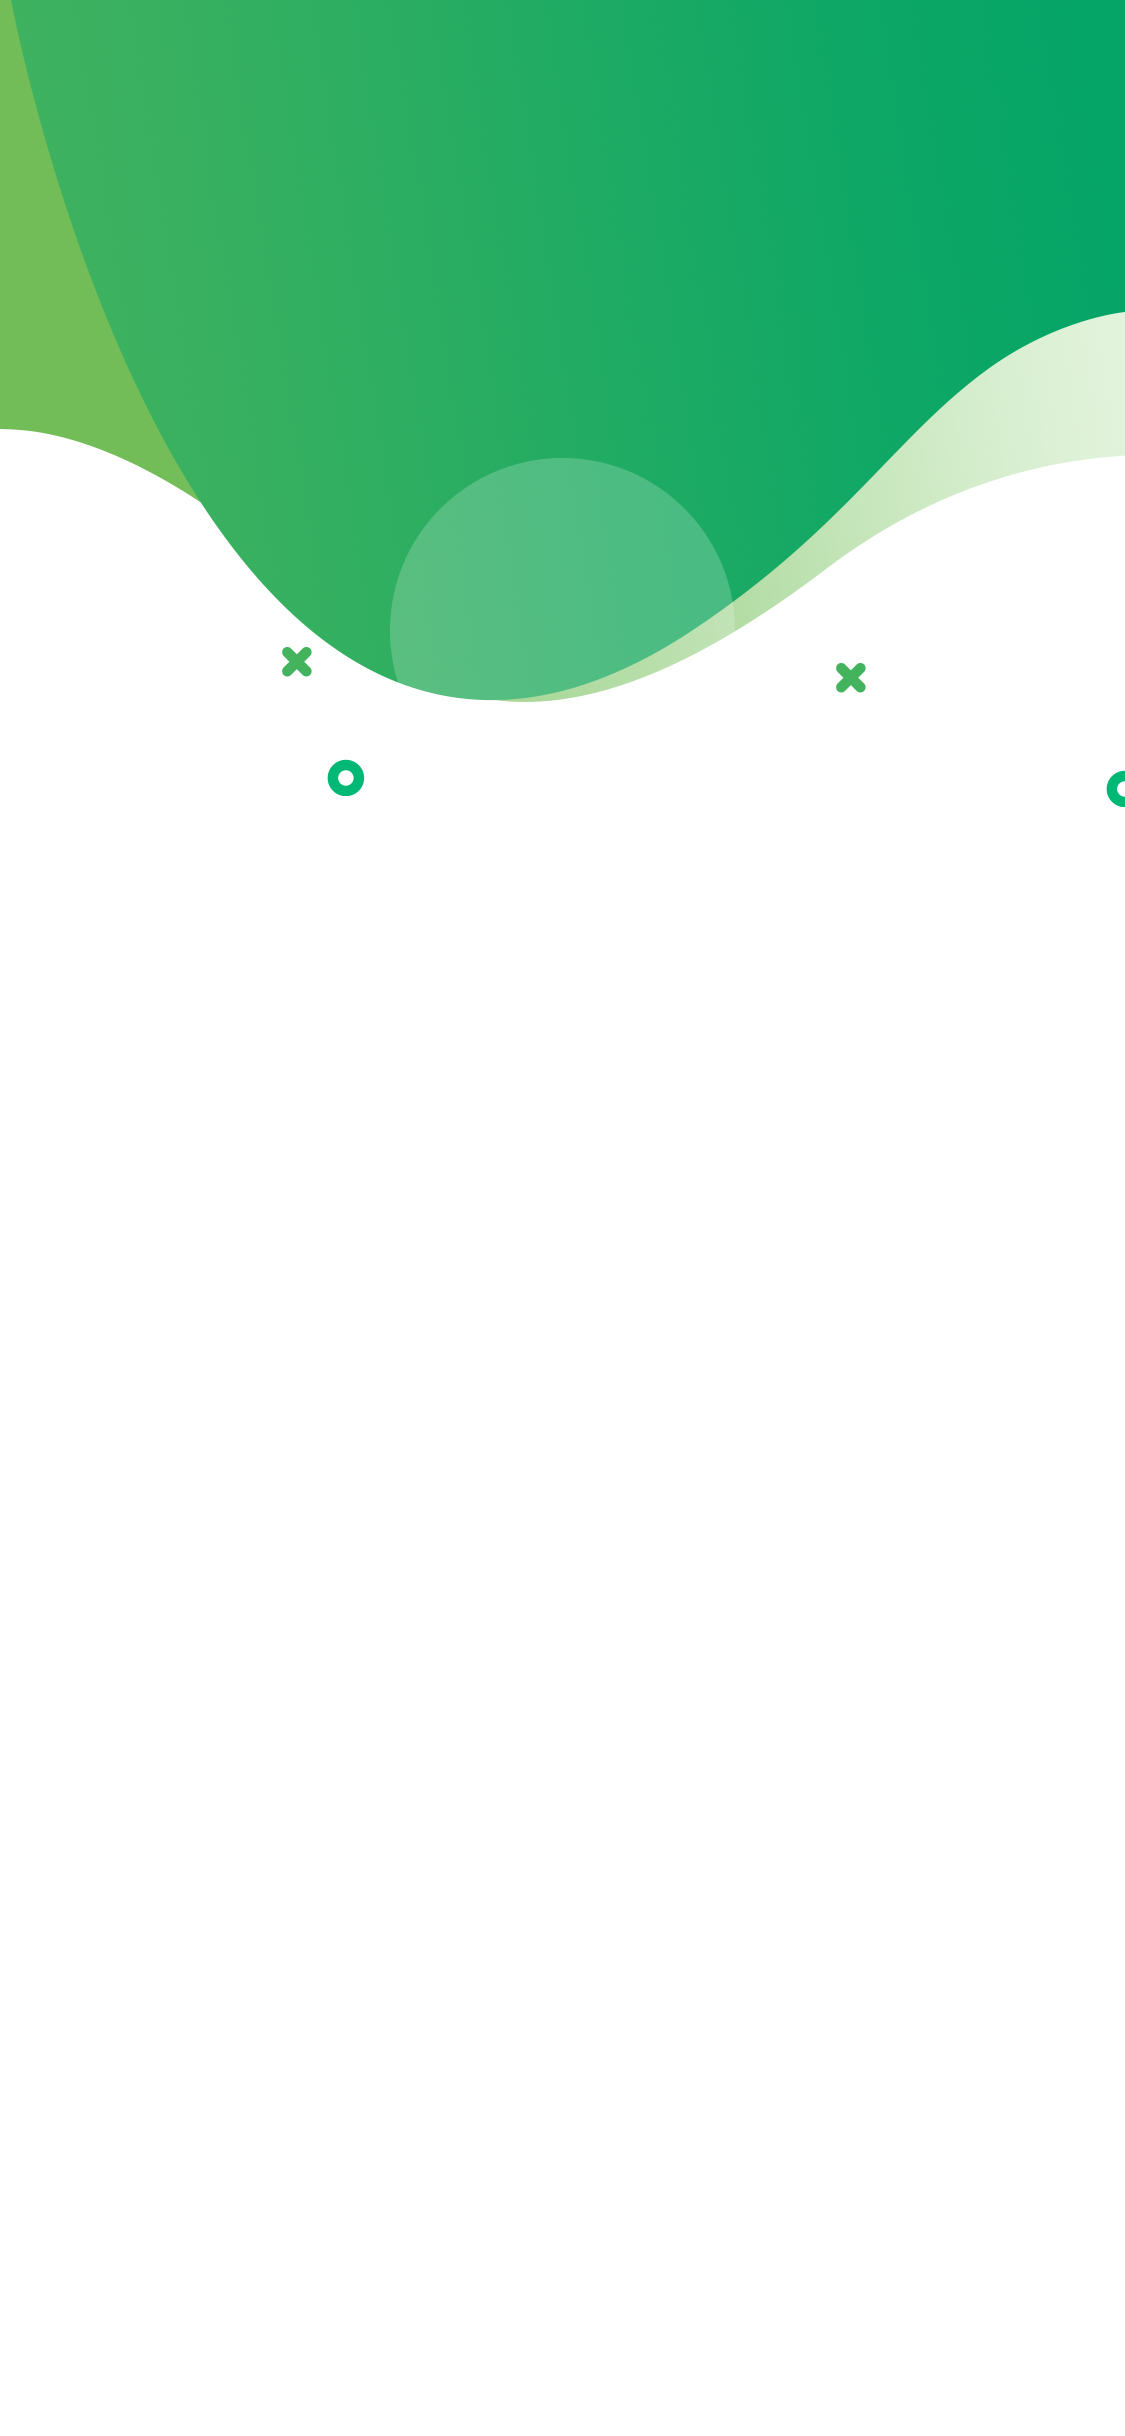
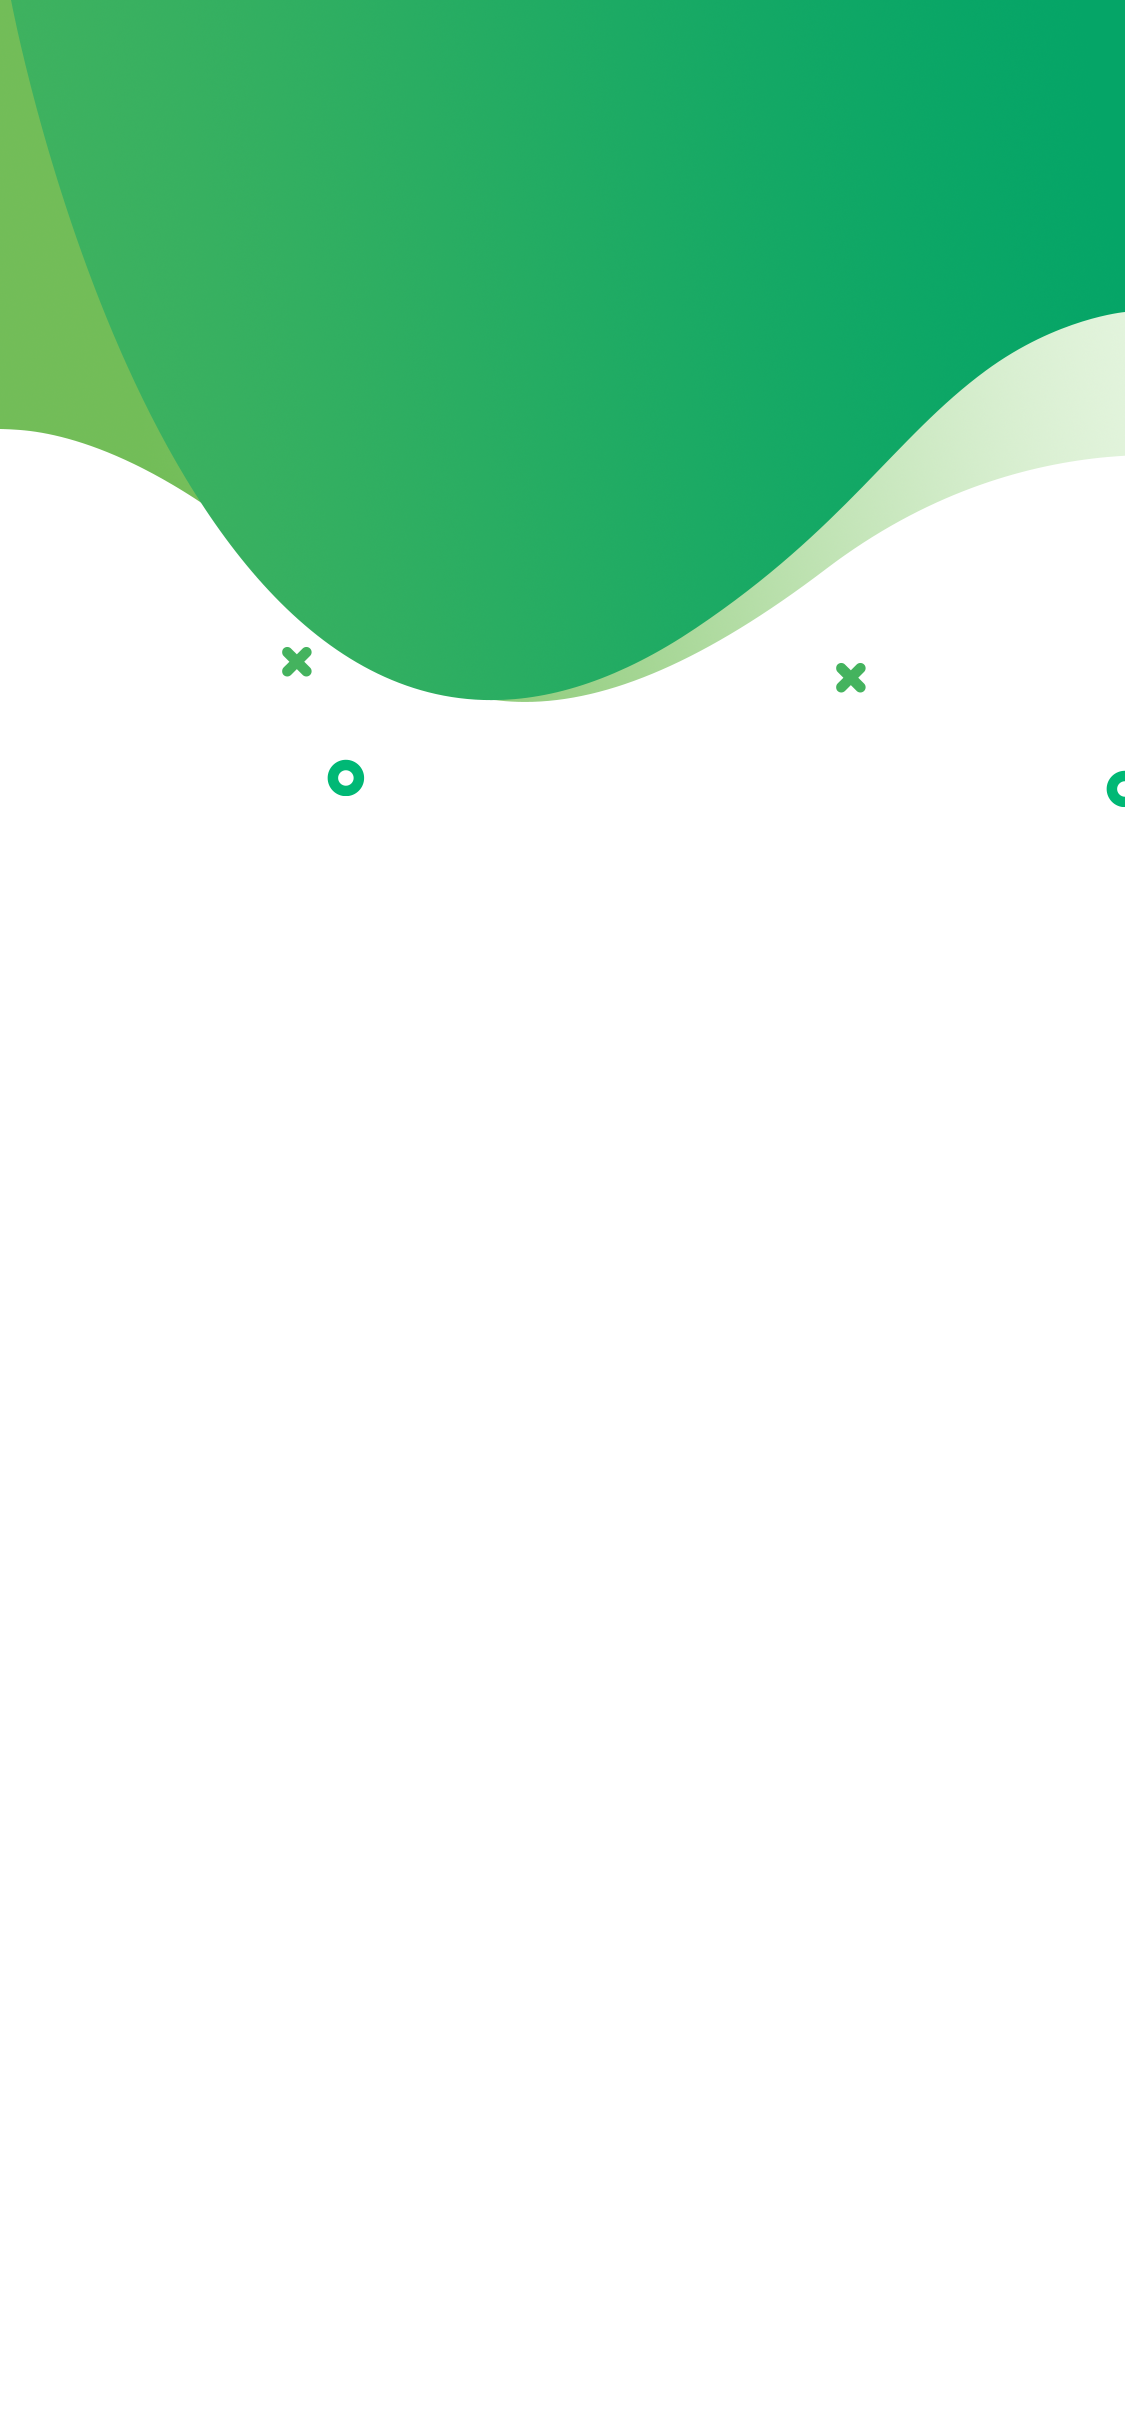
Added fixes for background and profile photo.

Changed region(s): [[0.3422, 0.1872, 0.6533, 0.312]]

diff --git a/components/templates/SignInTemplate/SignInTemplate.tsx b/components/templates/SignInTemplate/SignInTemplate.tsx
@@ -17,12 +17,14 @@ export const SignInTemplate: React.FC<Props> = ({
 }) => {
   return (
     <ImageBackground
+      style={styles.background}
       source={require('../../../assets/png/02_Login.png')}
-      resizeMode={'cover'}
-      style={styles.background}>
-      <SignInTop />
+      resizeMode={'cover'}>
       <View style={styles.profilePhoto}>
-        <ProfilePhoto photoUrl={require('../../../assets/jpg/3.jpg')} />
+        <SignInTop />
+        <ProfilePhoto
+          photoUrl={require('../../../assets/jpg/profile_photo.jpg')}
+        />
       </View>
       <SignInForm
         onPressSignIn={onPressSignIn}

diff --git a/components/templates/SignInTemplate/SignInTemplate.styles.ts b/components/templates/SignInTemplate/SignInTemplate.styles.ts
@@ -1,11 +1,17 @@
 import {StyleSheet} from 'react-native';
 
 export default StyleSheet.create({
-  background: {flex: 1},
-  profilePhoto: {
-    // position: 'relative',
-    marginTop: '-28%',
-    marginLeft: 'auto',
-    marginRight: 'auto',
+  background: {
+    // flex: 1,
+    // height: '100%',
+    width: '100%',
+    height: '100%',
   },
+  profilePhoto: {
+    marginHorizontal: 'auto',
+    alignItems: 'center',
+    justifyContent: 'space-around',
+    height: '30%',
+  },
+  topImage: {width: '100%', height: '100%'},
 });

diff --git a/components/atoms/ProfilePhoto/ProfilePhoto.styles.ts b/components/atoms/ProfilePhoto/ProfilePhoto.styles.ts
@@ -2,5 +2,13 @@ import {StyleSheet} from 'react-native';
 import {Colors} from '../../../constants/colors';
 
 export default StyleSheet.create({
-  image: {height: 90, width: 90, borderRadius: 50},
+  image: {height: 90, width: 90, borderRadius: 50, zIndex: 1},
+  imageContainer: {
+    height: 100,
+    width: 100,
+    borderRadius: 50,
+    backgroundColor: 'rgba(255,255,255,.4)',
+    justifyContent: 'center',
+    alignItems: 'center',
+  },
 });

diff --git a/components/atoms/CustomPasswordInput/CustomPasswordInput.styles.ts b/components/atoms/CustomPasswordInput/CustomPasswordInput.styles.ts
@@ -2,7 +2,10 @@ import {StyleSheet} from 'react-native';
 import {Colors} from '../../../constants/colors';
 
 export default StyleSheet.create({
-  input: {fontFamily: 'OpenSans-Regular'},
+  input: {
+    fontFamily: 'OpenSans-Regular',
+    width: '95%',
+  },
   inputContainer: {
     width: '100%',
     borderBottomColor: Colors.grey.divider,

diff --git a/components/atoms/ProfilePhoto/ProfilePhoto.stories.tsx b/components/atoms/ProfilePhoto/ProfilePhoto.stories.tsx
@@ -5,5 +5,5 @@ import {ProfilePhoto} from './ProfilePhoto';
 storiesOf('atoms/ProfilePhoto', module)
   .addDecorator(story => story())
   .add('default', () => (
-    <ProfilePhoto photoUrl={require('../../../assets/jpg/3.jpg')} />
+    <ProfilePhoto photoUrl={require('../../../assets/jpg/profile_photo.jpg')} />
   ));

diff --git a/components/atoms/ProfilePhoto/ProfilePhoto.tsx b/components/atoms/ProfilePhoto/ProfilePhoto.tsx
@@ -7,5 +7,9 @@ export type Props = {
 };
 
 export const ProfilePhoto: React.FC<Props> = ({photoUrl}) => {
-  return <Image source={photoUrl} style={styles.image}></Image>;
+  return (
+    <View style={styles.imageContainer}>
+      <Image source={photoUrl} style={styles.image}></Image>
+    </View>
+  );
 };

diff --git a/.eslintrc.js b/.eslintrc.js
@@ -2,7 +2,7 @@ module.exports = {
   root: true,
   extends: ['plugin:@typescript-eslint/recommended'],
   parser: '@typescript-eslint/parser',
-  plugins: ['@typescript-eslint'],
+  // plugins: ['@typescript-eslint'],
   rules: {'@typescript-eslint/no-unused-vars': 'off'},
   overrides: [
     {

diff --git a/components/organisms/SignInTop/SignInTop.stories.tsx b/components/organisms/SignInTop/SignInTop.stories.tsx
@@ -4,6 +4,4 @@ import {SignInTop} from './SignInTop';
 
 storiesOf('organisms/SignInTop', module)
   .addDecorator(story => story())
-  .add('default', () => (
-    <SignInTop photoUrl={require('../../../assets/jpg/3.jpg')} />
-  ));
+  .add('default', () => <SignInTop />);
